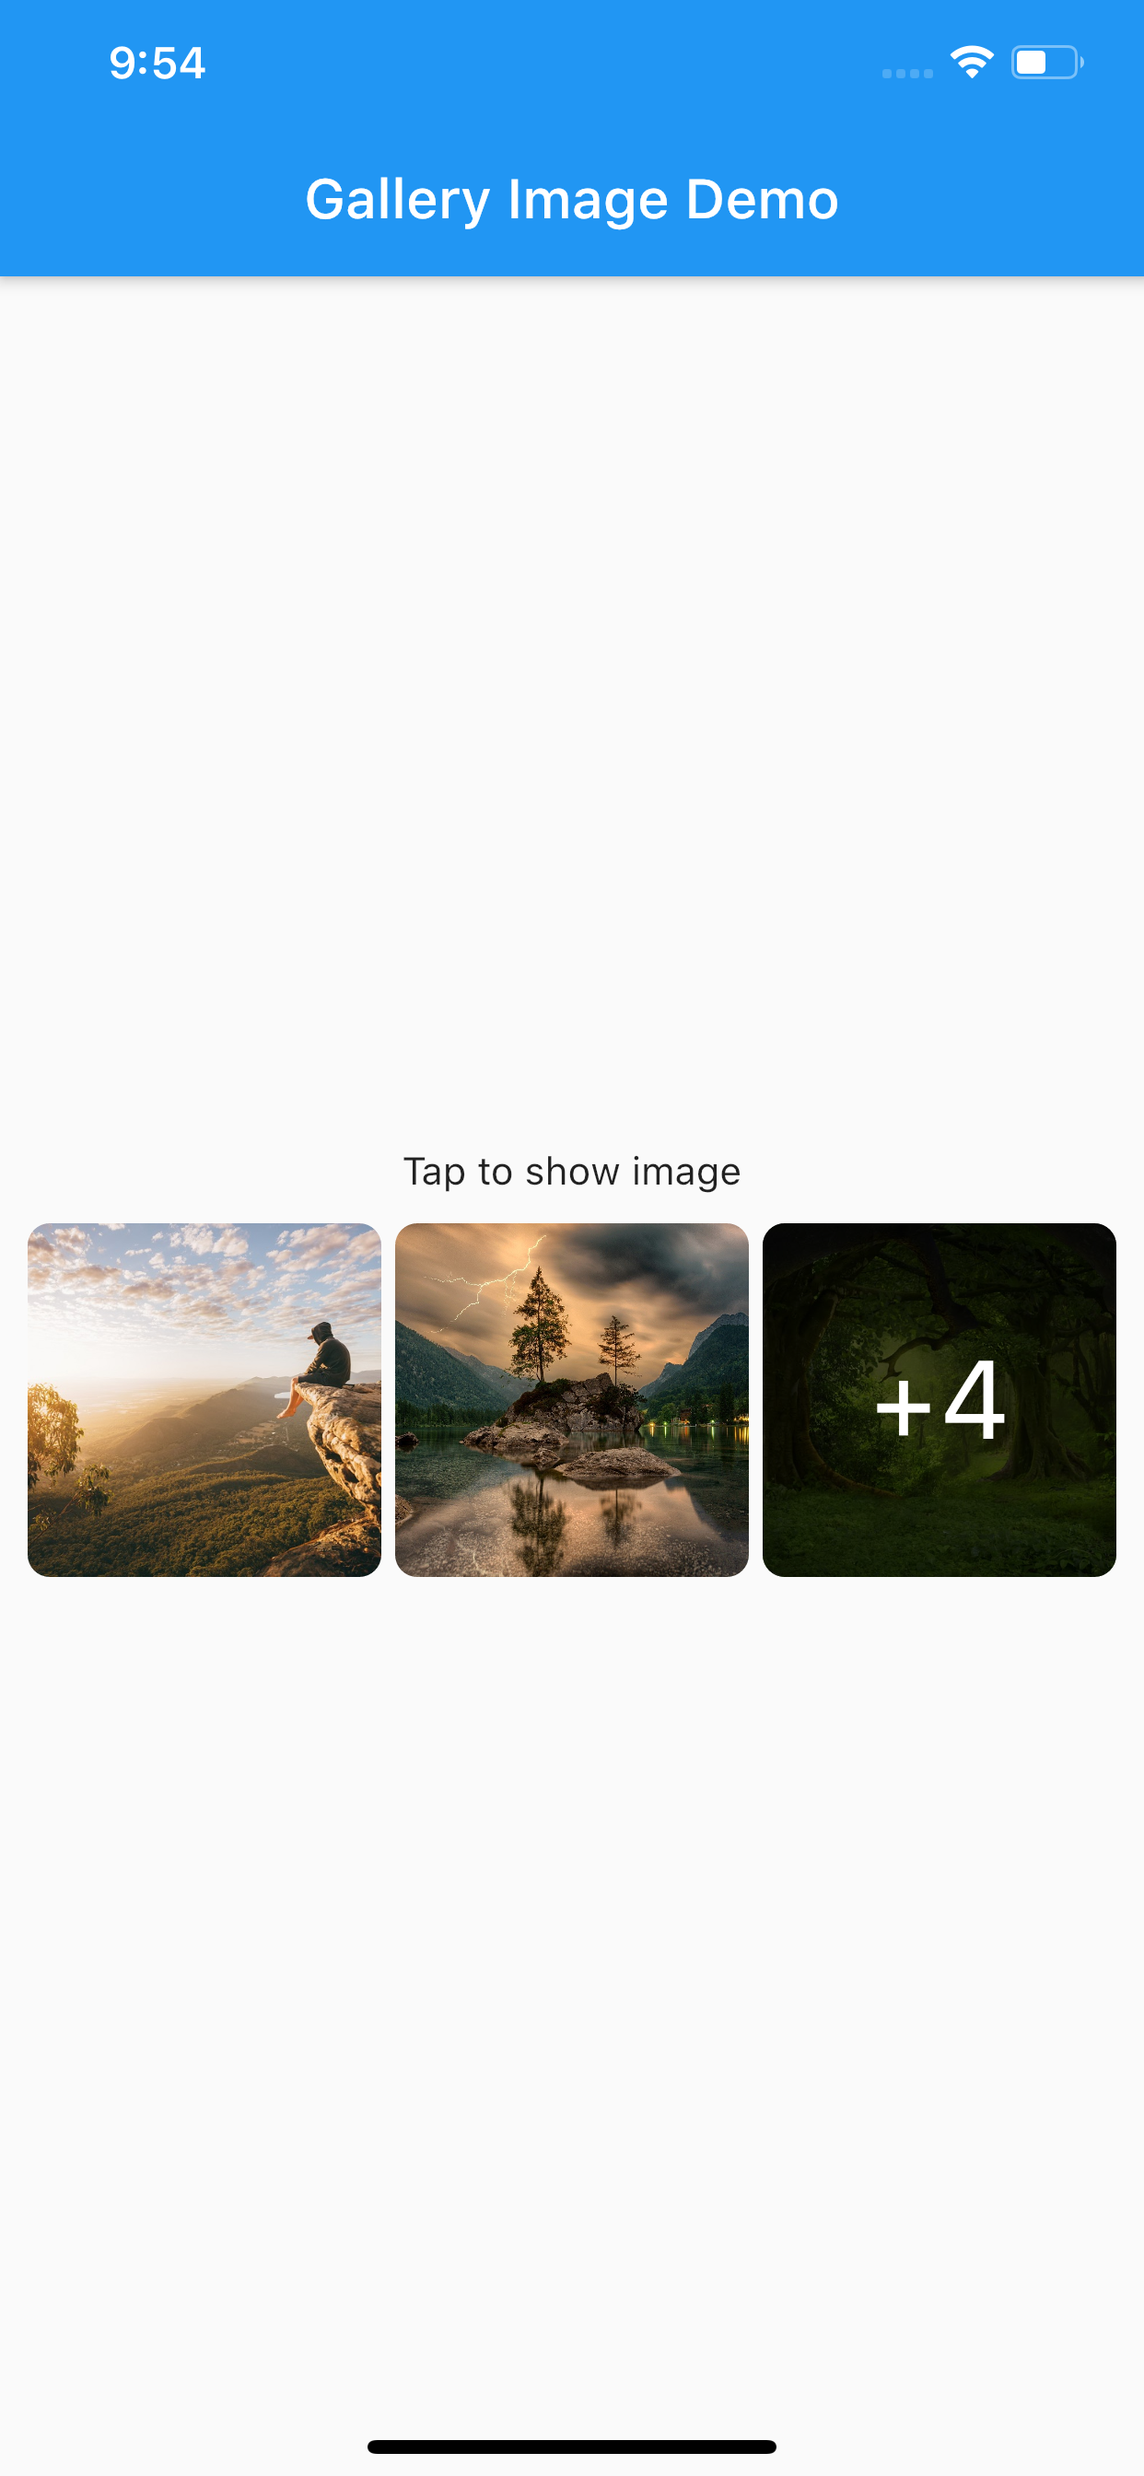
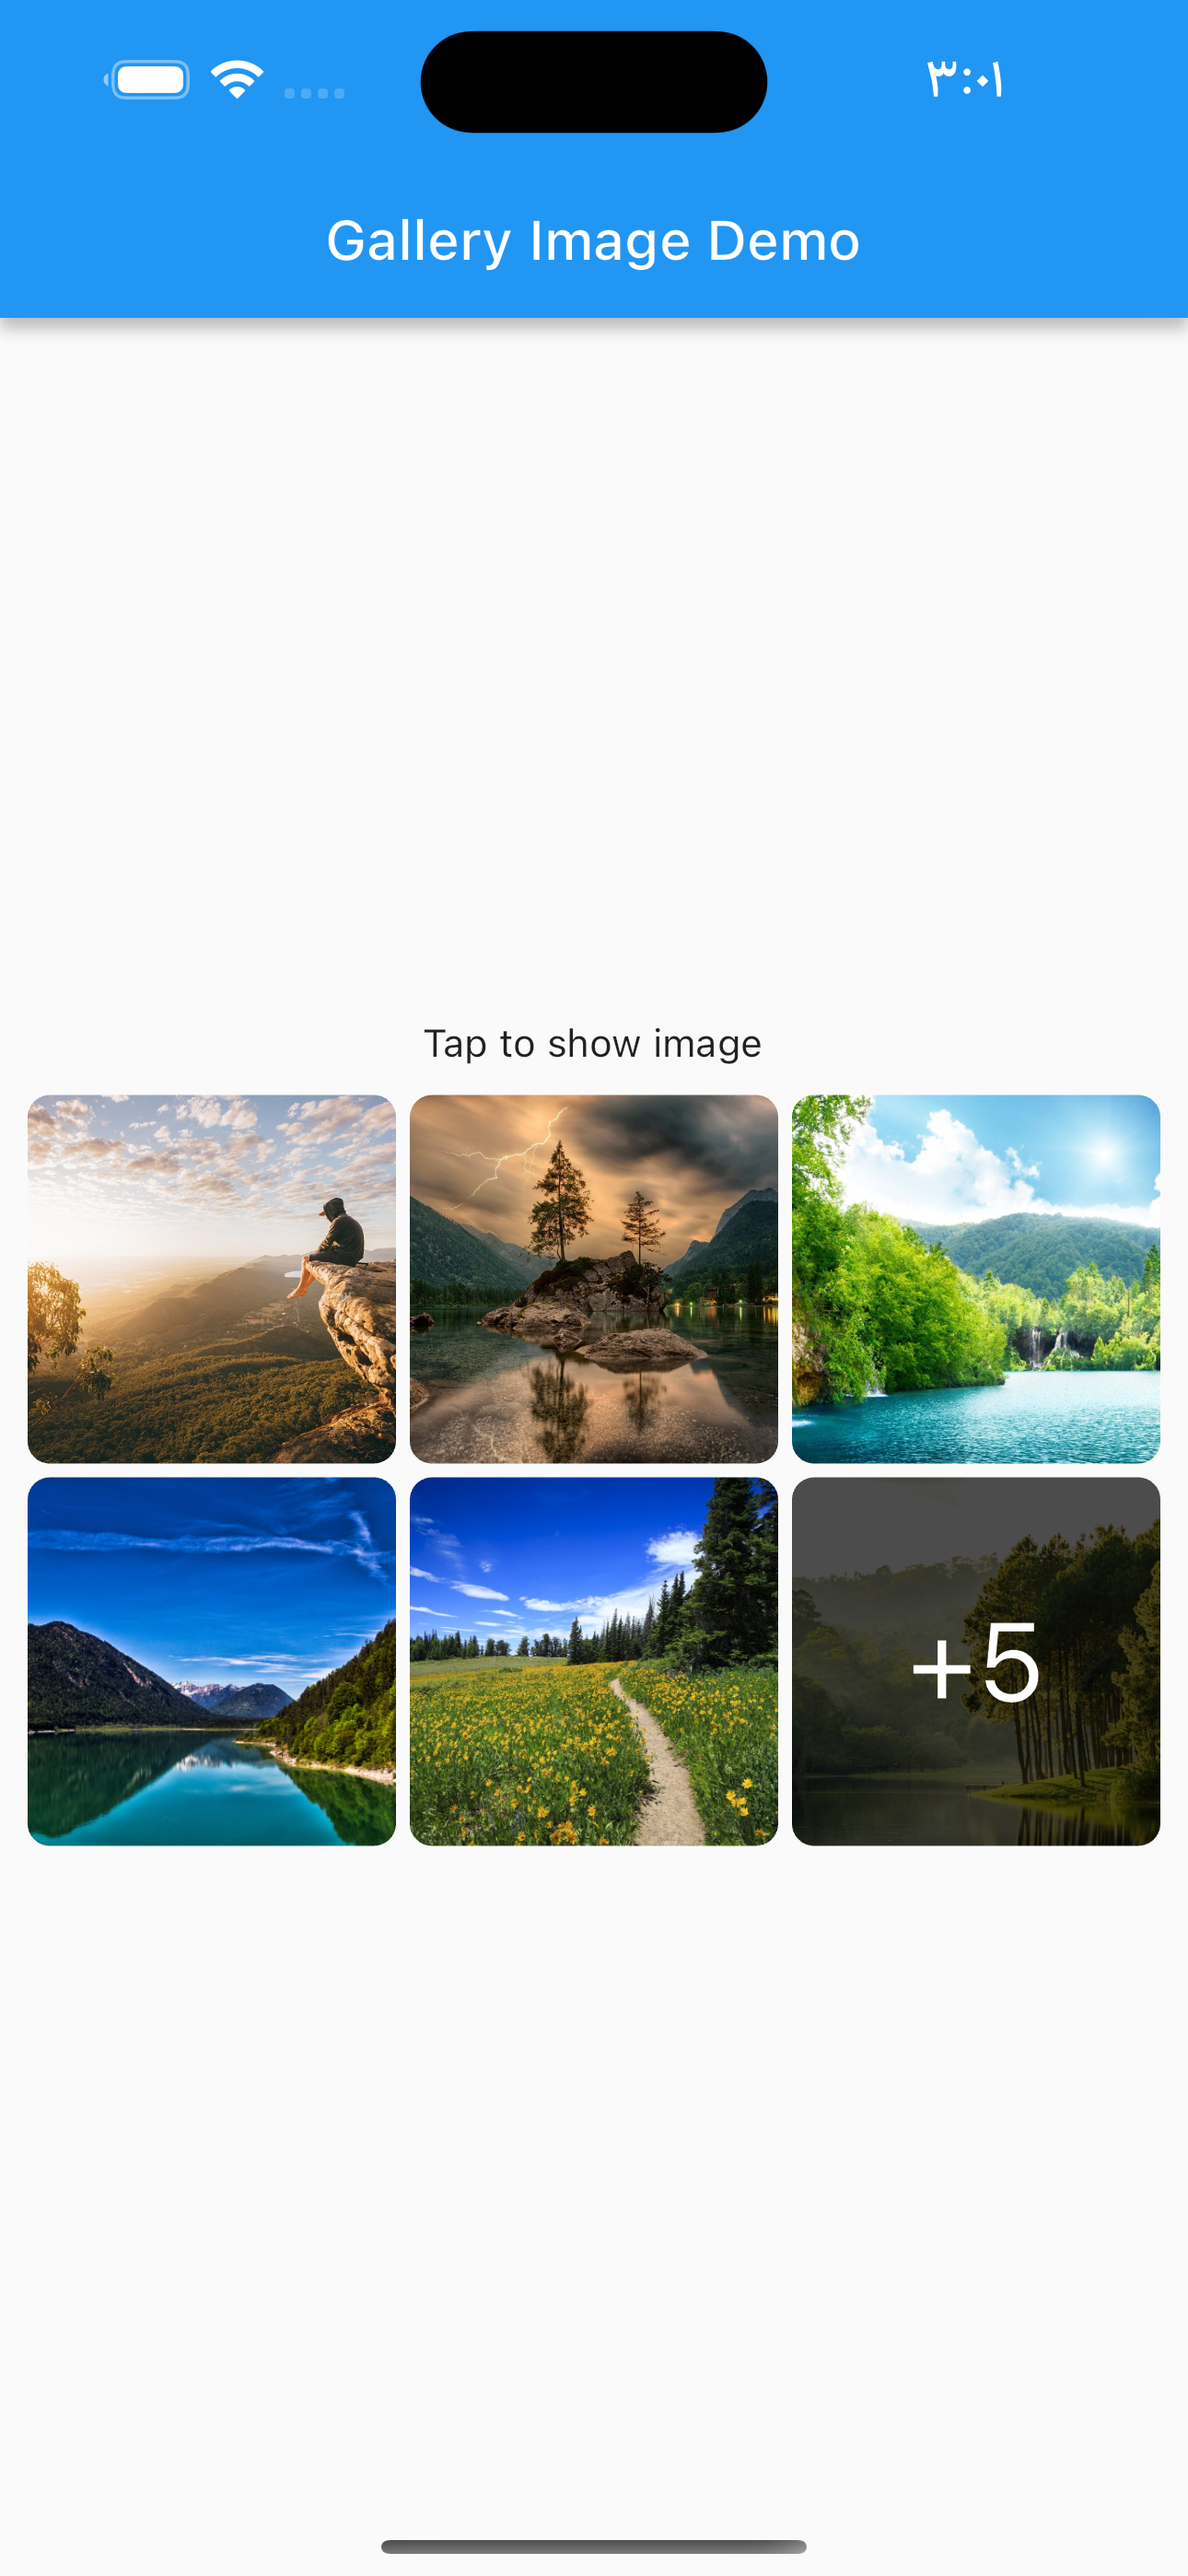
update readme

diff --git a/example/lib/main.dart b/example/lib/main.dart
@@ -38,20 +38,23 @@ class MyHomePage extends StatelessWidget {
             mainAxisAlignment: MainAxisAlignment.center,
             children: <Widget>[
               const Text("Tap to show image"),
-              GalleryImage(
-                numOfShowImages: 6,
-                imageUrls: const [
-                  "https://cosmosmagazine.com/wp-content/uploads/2020/02/191010_nature.jpg",
-                  "https://scx2.b-cdn.net/gfx/news/hires/2019/2-nature.jpg",
-                  "https://wallpapers.com/images/featured/2ygv7ssy2k0lxlzu.jpg",
-                  "https://upload.wikimedia.org/wikipedia/commons/7/77/Big_Nature_%28155420955%29.jpeg",
-                  "https://www.rd.com/wp-content/uploads/2020/04/GettyImages-1093840488-5-scaled.jpg",
-                  "https://media.cntraveller.com/photos/611bf0b8f6bd8f17556db5e4/1:1/w_2000,h_2000,c_limit/gettyimages-1146431497.jpg",
-                  "https://img.freepik.com/premium-photo/fantastic-view-kirkjufellsfoss-waterfall-near-kirkjufell-mountain-sunset_761071-868.jpg",
-                  "https://www.travelandleisure.com/thmb/KLPvXakEKLGE5AY2jVyovl3Md1k=/1500x0/filters:no_upscale():max_bytes(150000):strip_icc()/iceland-BEAUTCONT1021-b1aeafa7ac2847a484cbca48d3172b6c.jpg",
-                  "https://w0.peakpx.com/wallpaper/265/481/HD-wallpaper-nature.jpg",
-                  "https://e0.pxfuel.com/wallpapers/163/906/desktop-wallpaper-beautiful-nature-with-girl-beautiful-girl-with-nature-and-moon-high-resolution-beautiful.jpg",
-                ],
+              Padding(
+                padding: const EdgeInsets.all(10.0),
+                child: GalleryImage(
+                  numOfShowImages: 6,
+                  imageUrls: const [
+                    "https://cosmosmagazine.com/wp-content/uploads/2020/02/191010_nature.jpg",
+                    "https://scx2.b-cdn.net/gfx/news/hires/2019/2-nature.jpg",
+                    "https://wallpapers.com/images/featured/2ygv7ssy2k0lxlzu.jpg",
+                    "https://upload.wikimedia.org/wikipedia/commons/7/77/Big_Nature_%28155420955%29.jpeg",
+                    "https://www.rd.com/wp-content/uploads/2020/04/GettyImages-1093840488-5-scaled.jpg",
+                    "https://media.cntraveller.com/photos/611bf0b8f6bd8f17556db5e4/1:1/w_2000,h_2000,c_limit/gettyimages-1146431497.jpg",
+                    "https://img.freepik.com/premium-photo/fantastic-view-kirkjufellsfoss-waterfall-near-kirkjufell-mountain-sunset_761071-868.jpg",
+                    "https://www.travelandleisure.com/thmb/KLPvXakEKLGE5AY2jVyovl3Md1k=/1500x0/filters:no_upscale():max_bytes(150000):strip_icc()/iceland-BEAUTCONT1021-b1aeafa7ac2847a484cbca48d3172b6c.jpg",
+                    "https://w0.peakpx.com/wallpaper/265/481/HD-wallpaper-nature.jpg",
+                    "https://e0.pxfuel.com/wallpapers/163/906/desktop-wallpaper-beautiful-nature-with-girl-beautiful-girl-with-nature-and-moon-high-resolution-beautiful.jpg",
+                  ],
+                ),
               ),
             ],
           ),

diff --git a/README.md b/README.md
@@ -17,7 +17,7 @@ A Flutter plugin that list of images from URLs
     <img src="https://img.shields.io/badge/build-passing-green"
          alt="Build">
   </a>
-  <a href="https://pub.dartlang.org/packages/galleryimage"><img src="https://img.shields.io/badge/pub-v1.2.0-blue"></a>
+  <a href="https://pub.dartlang.org/packages/galleryimage"><img src="https://img.shields.io/badge/pub-v2.0.1-blue"></a>
   
 </p>
 
@@ -35,6 +35,9 @@ A Flutter plugin that list of images from URLs
 ## Key Features
 * Pick images from Url
 * Photos sorted 
+* close the gallery when Swipe Up or Down
+* Add List of image in Gallery Screen 
+* Change Loading Widget
 * zoomable image
 
 ## Installation
@@ -84,7 +87,6 @@ Gallery Image is an [emailware](https://en.wiktionary.org/wiki/emailware). Meani
 
 ## Related
 
-[photo_view](https://pub.dartlang.org/packages/photo_view) - A simple zoomable image/content widget for Flutter.
 [cached_network_image](https://pub.dartlang.org/packages/cached_network_image) - To Load and cache network images..
 
 You can build a gallery Images easily with this package.

diff --git a/CHANGELOG.md b/CHANGELOG.md
@@ -1,6 +1,13 @@
+## [2.0.1] -  2.0.1
+
+* Update readme.md file
+* Update screenshot files
+* Update example
+
 ## [2.0.0] -  2.0.0
 
 * Update Flutter 3.10
+* Support Dart 3
 * Add Option to close the gallery when Swipe Up or Down 
 * Can Change Loading Widget
 * Can Change Error Widget
@@ -10,6 +17,8 @@
 * Add List of image in Gallery Screen
 * Control to Show AppBar in Gallery Screen
 * Encasement
+* Update Dependencies
+
 
 ## [1.2.0] -  1.2.0
 
